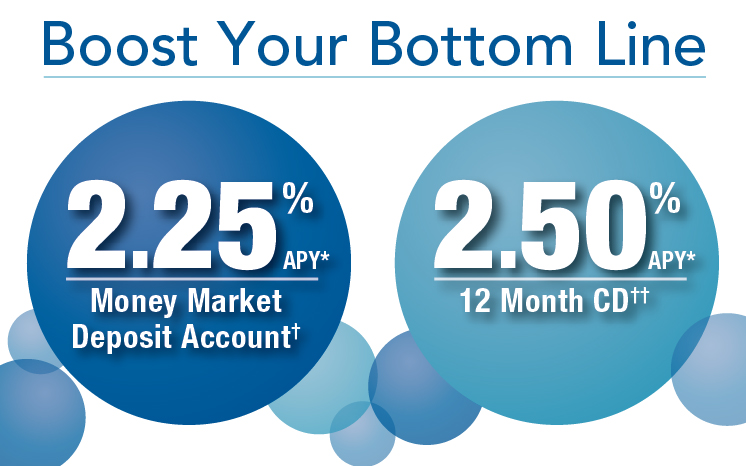
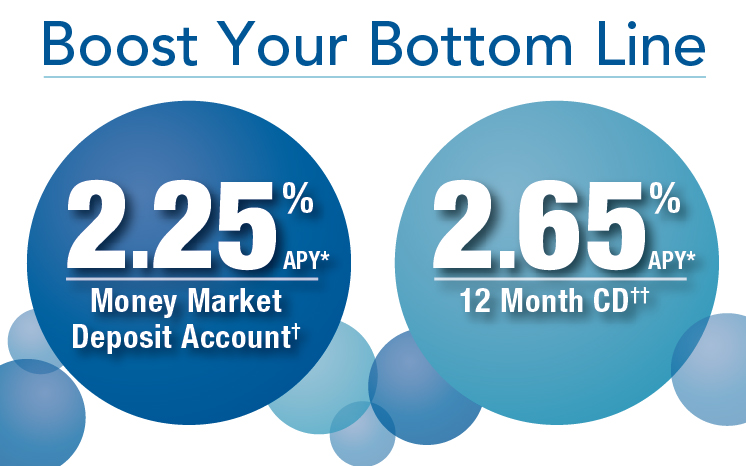
Updated rates and images

Changed region(s): [[0.6783, 0.3906, 0.8941, 0.5708], [0.8016, 0.3605, 0.8324, 0.3906]]

diff --git a/savings.html b/savings.html
@@ -138,8 +138,8 @@
               </div>
             </div><!-- row -->
             <div class="row spacer">
-              <p class="small para-margin">Marine Bank Wisconsin: <sup>*</sup>Annual Percentage Yield (APY) <sup>†</sup>Money Market Deposit Account: Promotional rate of 2.25% APY for new accounts effective as of 10/22/18 and guaranteed for the first 365 days after account opening. Promotional rate offered on $10,000.00 or more of new money not currently on deposit within last 30 days with CIBM Bank. Minimum opening deposit of $100.00. The interest rate is subject to change at any time after initial 365 days. As of 10/10/18 Personal Money Market balances of $0.00-$9,999.99 (.08% APY); $10,000.00-$24,999.99 (.12% APY); $25,000.00-$49,999.99 (.15% APY); $50,000.00-$99,999.99 (.17% APY); $100,000.00 and above (.20% APY). Monthly fee $2.00 per debit if $1,000.00 minimum balance not maintained. As of 10/10/18 Business Money Market balances of $0.00-$9,999.99 (.08% APY); $10,000.00-$24,999.99 (.12% APY); $25,000.00-$49,999.99 (.15% APY); $50,000.00-$99,999.99 (.17% APY); $100,000.00 and above (.20% APY). Monthly fee $15.00 service charge if $5,000.00 minimum balance not maintained. Fees may reduce earnings. Accounts closed within 6 months of opening date subject to a $25.00 closing fee. <sup>††</sup>12 Month Certificate of Deposit & IRA: Promotional rate of 2.50% (APY) effective as of 10/15/18 and guaranteed for the term of the account. Offer limited to $10,000.00 or more of new money not currently on deposit within last 30 days with CIBM Bank. Minimum opening deposit of $2,500.00 and a maximum of $250,000.00. Withdrawals made prior to maturity may be subject to an early withdrawal penalty. Offer not available in combination with any other offer.</p>
-              <p class="small para-margin">Marine Bank Indiana:  <sup>*</sup>Annual Percentage Yield (APY) <sup>†</sup>Money Market Deposit Account: Promotional rate of 2.25% APY for new accounts effective as of 11/12/18 and guaranteed for the first 365 days after account opening. Promotional rate offered on $10,000.00 or more of new money not currently on deposit within last 30 days with CIBM Bank. Minimum opening deposit of $100.00. The interest rate is subject to change at any time after initial 365 days. As of 10/10/18 Personal Money Market balances of $0.00-$9,999.99 (.08% APY); $10,000.00-$24,999.99 (.10% APY); $25,000.00-$49,999.99 (.13% APY); $50,000.00-$99,999.99 (.14% APY); $100,000.00 and above (.15% APY). Monthly fee $2.00 per debit if $1,000.00 minimum balance not maintained. As of 10/10/18 Business Money Market balances of $0.00-$9,999.99 (.08% APY); $10,000.00-$24,999.99 (.10% APY); $25,000.00-$49,999.99 (.13% APY); $50,000.00-$99,999.99 (.14% APY); $100,000.00 and above (.15% APY). Monthly fee $15.00 service charge if $5,000.00 minimum balance not maintained. Fees may reduce earnings. Accounts closed within 6 months of opening date subject to a $25.00 closing fee. <sup>††</sup>12 Month Certificate of Deposit & IRA: Promotional rate of 2.50% (APY) effective as of 10/29/18 and guaranteed for the term of the account. Offer limited to $10,000.00 or more of new money not currently on deposit within last 30 days with CIBM Bank. Minimum opening deposit of $2,500.00 and a maximum of $250,000.00. Withdrawals made prior to maturity may be subject to an early withdrawal penalty. Offer not available in combination with any other offer.</p>
+              <p class="small para-margin">Marine Bank Wisconsin: <sup>*</sup>Annual Percentage Yield (APY) <sup>†</sup>Money Market Deposit Account: Promotional rate of 2.25% APY for new accounts effective as of 10/22/18 and guaranteed for the first 365 days after account opening. Promotional rate offered on $10,000.00 or more of new money not currently on deposit within last 30 days with CIBM Bank. Minimum opening deposit of $100.00. The interest rate is subject to change at any time after initial 365 days. As of 10/10/18 Personal Money Market balances of $0.00-$9,999.99 (.08% APY); $10,000.00-$24,999.99 (.12% APY); $25,000.00-$49,999.99 (.15% APY); $50,000.00-$99,999.99 (.17% APY); $100,000.00 and above (.20% APY). Monthly fee $2.00 per debit if $1,000.00 minimum balance not maintained. As of 10/10/18 Business Money Market balances of $0.00-$9,999.99 (.08% APY); $10,000.00-$24,999.99 (.12% APY); $25,000.00-$49,999.99 (.15% APY); $50,000.00-$99,999.99 (.17% APY); $100,000.00 and above (.20% APY). Monthly fee $15.00 service charge if $5,000.00 minimum balance not maintained. Fees may reduce earnings. Accounts closed within 6 months of opening date subject to a $25.00 closing fee. <sup>††</sup>12 Month Certificate of Deposit & IRA: Promotional rate of 2.65% (APY) effective as of 11/14/18 and guaranteed for the term of the account. Offer limited to $10,000.00 or more of new money not currently on deposit within last 30 days with CIBM Bank. Minimum opening deposit of $2,500.00 and a maximum of $250,000.00. Withdrawals made prior to maturity may be subject to an early withdrawal penalty. Offer not available in combination with any other offer.</p>
+              <p class="small para-margin">Marine Bank Indiana:  <sup>*</sup>Annual Percentage Yield (APY) <sup>†</sup>Money Market Deposit Account: Promotional rate of 2.25% APY for new accounts effective as of 11/12/18 and guaranteed for the first 365 days after account opening. Promotional rate offered on $10,000.00 or more of new money not currently on deposit within last 30 days with CIBM Bank. Minimum opening deposit of $100.00. The interest rate is subject to change at any time after initial 365 days. As of 10/10/18 Personal Money Market balances of $0.00-$9,999.99 (.08% APY); $10,000.00-$24,999.99 (.10% APY); $25,000.00-$49,999.99 (.13% APY); $50,000.00-$99,999.99 (.14% APY); $100,000.00 and above (.15% APY). Monthly fee $2.00 per debit if $1,000.00 minimum balance not maintained. As of 10/10/18 Business Money Market balances of $0.00-$9,999.99 (.08% APY); $10,000.00-$24,999.99 (.10% APY); $25,000.00-$49,999.99 (.13% APY); $50,000.00-$99,999.99 (.14% APY); $100,000.00 and above (.15% APY). Monthly fee $15.00 service charge if $5,000.00 minimum balance not maintained. Fees may reduce earnings. Accounts closed within 6 months of opening date subject to a $25.00 closing fee. <sup>††</sup>12 Month Certificate of Deposit & IRA: Promotional rate of 2.65% (APY) effective as of 11/14/18 and guaranteed for the term of the account. Offer limited to $10,000.00 or more of new money not currently on deposit within last 30 days with CIBM Bank. Minimum opening deposit of $2,500.00 and a maximum of $250,000.00. Withdrawals made prior to maturity may be subject to an early withdrawal penalty. Offer not available in combination with any other offer.</p>
             </div><!-- row -->
             <div class="row spacer">
               <div class="col-md-6">
